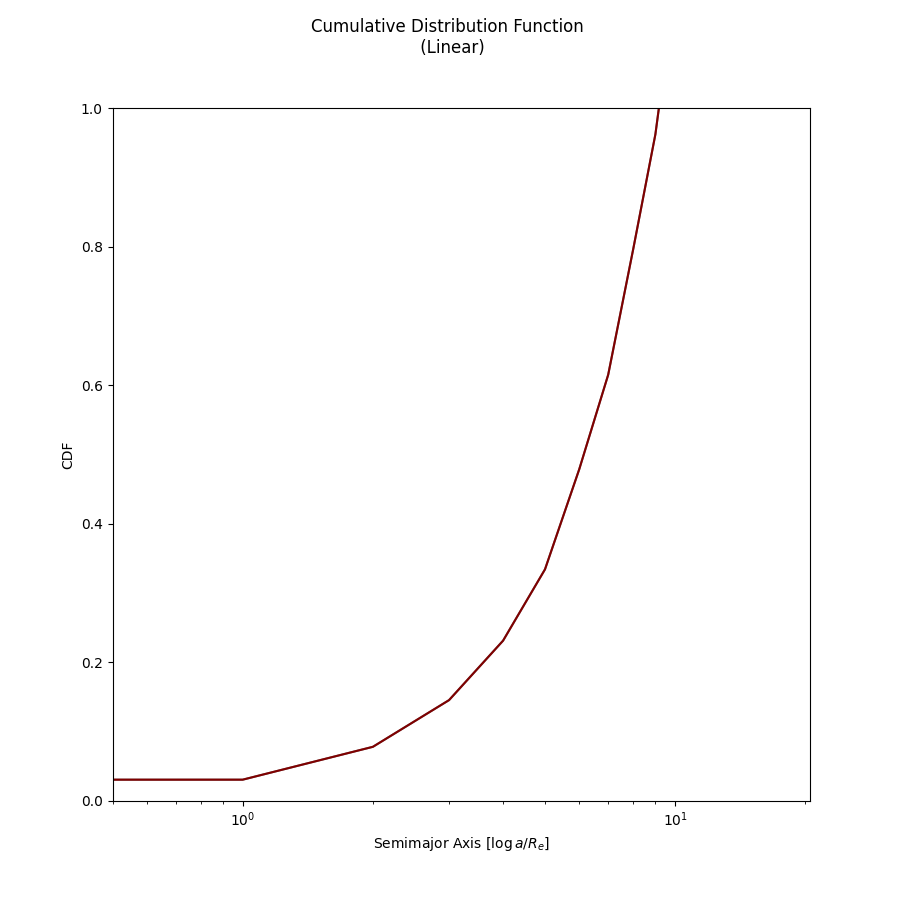
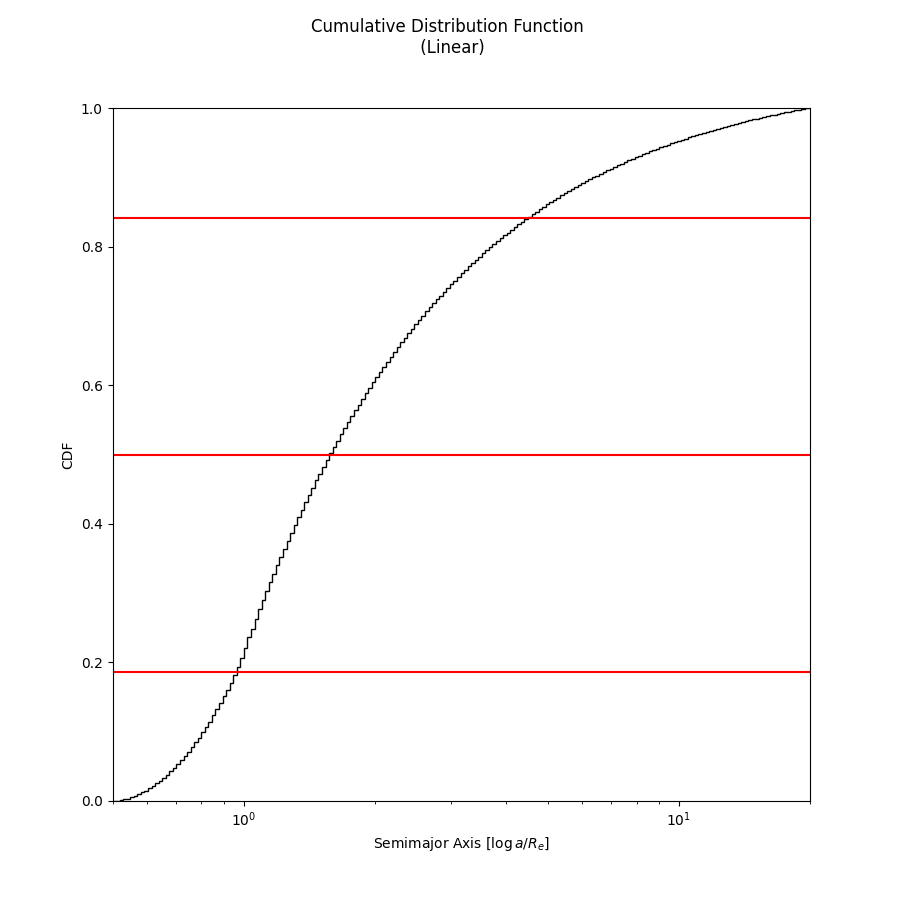
Fixed CDF to actually work now, still working on stats for 68% and 95% though

diff --git a/Sep_plot.py b/Sep_plot.py
@@ -957,7 +957,8 @@ class Sep_plot(Sep_gen):
         if unity:
             file_name = f'/home/karkour.2/Results/UnityHist_eccent_incline_{self.numestep}_0002_{which}.csv'
         else:
-            file_name = f'/College_Projects/Microlensing Separation/Results/UnityHist_eccent_incline_{self.numestep}_0002_{which}.csv'
+            # file_name = f'/College_Projects/Microlensing Separation/Results/UnityHist_eccent_incline_{self.numestep}_0002_{which}.csv'
+            file_name = f'/Users/victo/College_Projects/Microlensing Separation/Results/UnityHist_eccent_incline_{self.numestep}_0002_{which}.csv'
 
         df_unity = pd.read_csv(file_name)
 
@@ -1039,8 +1040,8 @@ class Sep_plot(Sep_gen):
         #     print("Did not save figure, something must be wrong....")
         #     print(os.getcwd())
         
-        plt.savefig(f'/College_Projects/Microlensing Separation/Figures/UnityHist_eccent_incline_{self.numestep}_0002_{which}_norm_load.png')
-        # plt.savefig(f"C:/Users/victo/College_Projects/Microlensing Separation/Figures/UnityHist_eccent_incline_{self.numestep}_0002_{which}.png")
+        # plt.savefig(f'/College_Projects/Microlensing Separation/Figures/UnityHist_eccent_incline_{self.numestep}_0002_{which}_norm_load.png')
+        plt.savefig(f"C:/Users/victo/College_Projects/Microlensing Separation/Figures/UnityHist_eccent_incline_{self.numestep}_0002_{which}.png")
         return tothist
     def statistics(self, which):
         """
@@ -1049,41 +1050,45 @@ class Sep_plot(Sep_gen):
         nbin = 200
         amin = 0.5
         amax = 21
-        # Make logbinsizes for all
-        logbinsize = np.abs((np.log10(amin)-np.log10(amax))/nbin)
+        # Make log bins for all
+        bins = np.geomspace(amin,amax, nbin)
 
-        filename = f'/College_Projects/Microlensing Separation/Results/UnityHist_eccent_incline_{self.numestep}_0002_{which}.csv'
-        # filename = f'/Users/victo/College_Projects/Microlensing Separation/Results/UnityHist_eccent_incline_{self.numestep}_0002_{which}.csv'
+        # filename = f'/College_Projects/Microlensing Separation/Results/UnityHist_eccent_incline_{self.numestep}_0002_{which}.csv'
+        filename = f'/Users/victo/College_Projects/Microlensing Separation/Results/UnityHist_eccent_incline_{self.numestep}_0002_{which}.csv'
         df_stats = pd.read_csv(filename)
         df_stats["cumulative"] = 0
         cumulative = 0
-        cumul_norm = np.abs(1 / (df_stats["final list"].max()))
+        cumul_norm = np.abs(1 / (sum(df_stats["final list"])))
         for i in range(len(df_stats["final list"])):
             cumulative = cumulative + df_stats.loc[i, "final list"]
             df_stats.loc[i, "cumulative"] = cumulative
         c = np.cumsum(df_stats["final list"])
         fig, ax = plt.subplots(figsize = (9,9), sharex=True,sharey=True,gridspec_kw=dict(hspace=0,wspace=0))
         fig.suptitle(f"Cumulative Distribution Function \n ({which})")
-        ax.plot(df_stats["cumulative"]*cumul_norm, color = "black")
-        ax.plot(c*cumul_norm, color = "red", alpha = 0.5)
-        ax.set_xlim(0.5,20.5)
+        ax.stairs(df_stats["cumulative"]*cumul_norm,bins, color = "black")
+        # ax.hist(c*cumul_norm, color = "red", alpha = 0.5)
+        ax.set_xlim(0.5,20)
         ax.set_ylim(0,1)
         ax.set_xscale("log")
+        ax.hlines(0.5, xmin = 0, xmax = 200, color = "r")
+        ax.hlines(0.5+(0.6827/2), xmin = 0, xmax = 200, color = "r")
+        ax.hlines(0.5-(0.6287/2), xmin = 0, xmax = 200, color = "r")
         ax.set_xlabel(r"Semimajor Axis [$\log{a/R_e}$]")
         ax.set_ylabel(r"CDF")
-        plt.savefig(f'/College_Projects/Microlensing Separation/Figures/CDF_{self.numestep}_0002_{which}.png')
-        # plt.savefig(f'C:/Users/victo/College_Projects/Microlensing Separation/Figures/CDF_{self.numestep}_0002_{which}.png')
+        # plt.savefig(f'/College_Projects/Microlensing Separation/Figures/CDF_{self.numestep}_0002_{which}.png')
+        plt.savefig(f'C:/Users/victo/College_Projects/Microlensing Separation/Figures/CDF_{self.numestep}_0002_{which}.png')
         
-        mean = np.log10(df_stats["final list"].mean())
-        std = np.log10(df_stats["final list"].std())
-
-        upper_68 = np.abs(mean + std)
-        lower_68 = np.abs(mean - std)
-        upper_95 = np.abs(mean + 2*std)
-        lower_95 = np.abs(mean - 2*std)
-
-        stats = [mean, std, upper_68, lower_68, upper_95, lower_95]
-        print("Mean: ", mean, " Std Dev: ", std, "68% CI: [", lower_68, ", ", upper_68, "] 95% CI: [", lower_95, ", ", upper_95, "]")
+        mean = round(np.log10(df_stats["final list"].mean()),3)
+        std = round(np.log10(df_stats["final list"].std()),3)
+        median = round(np.log10(df_stats['final list'].median()),3)
+        # Change this to np.percentile
+        upper_68 = round(np.log10(np.percentile(df_stats['final list'], 50+(68.27/2), method = 'nearest')),3)
+        lower_68 = round(np.log10(np.percentile(df_stats['final list'], 50-(68.27/2), method = 'nearest')),3)
+        upper_95 = round(np.log10(np.percentile(df_stats['final list'], 50-(68.27/2), method = 'nearest')),3)
+        lower_95 = round(np.log10(np.percentile(df_stats['final list'], 50-(68.27/2), method = 'nearest')),3)
+        # IMPORT STATS TO HELP WITH 68% 95% VALUES
+        stats = [mean, std, median, percent_68, percent_95]
+        print("Mean: ", mean, " Std Dev: ", std, ' Median: ', median, " 68%: ", percent_68, " 95%: ", percent_95)
         return stats
 
     def stepalpha(self,which, alpha = 1):
@@ -1099,7 +1104,6 @@ class Sep_plot(Sep_gen):
 
         # THIS MIGHT BE DIFFERENT FROM WHAT IT IS SUPPOSED TO BE
         alpha_ratio = alpha_new / alpha_init
-        
         
         for i in range(len(df_new["final list"])):
             df_new.loc[i, "final list"] = int(df_new.loc[i, "final list"] * alpha_ratio[i])
@@ -1145,8 +1149,8 @@ if __name__ == "__main__":
     # tothist.CompletePlotHist([0.002, 20, True, which, [], inum, wnum, unity])
     # folder = tothist.UnityPlotHistGen(which = which, unity = unity)
     # load = tothist.UnityPlotHistLoad(which = which, unity = unity)
-    # cdf = tothist.statistics(which = which)
-    alpha = tothist.stepalpha(which = which, alpha = 2)
+    cdf = tothist.statistics(which = which)
+    # alpha = tothist.stepalpha(which = which, alpha = 2)
 
 
 
